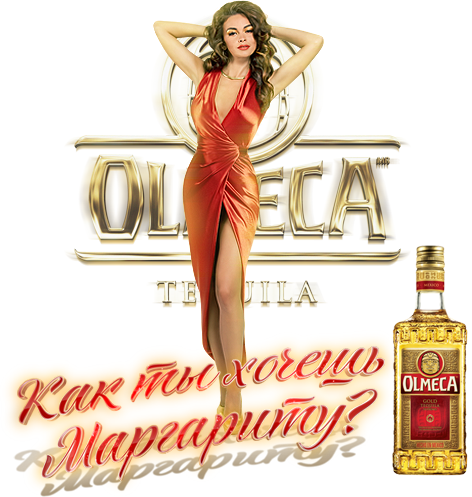
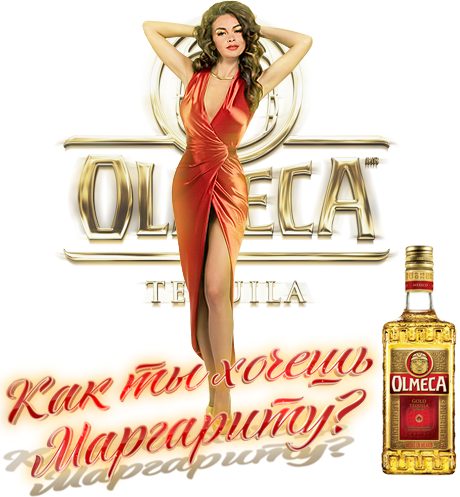
trim image more

diff --git a/htdocs/t/branding/2012.06/branding.css b/htdocs/t/branding/2012.06/branding.css
@@ -15,7 +15,7 @@
 button.rounded,
 .common-share-box .button i { background-repeat: no-repeat; background-image: url(common.png); }
 #spotlighted i { width: 65px; height: 40px; right: -1px; top: -9px; }
-#branded-image { background-repeat: no-repeat; background-image: url(image.png); width: 472px; height: 530px; left: 140px; bottom: -685px; }
+#branded-image { background-repeat: no-repeat; background-image: url(image.png); width: 460px; height: 530px; left: 145px; bottom: -685px; }
 #branded-image-holder { height: 1115px; position: absolute; top: 245px; bottom: auto; }
 html.float-fixed #branded-image-holder { position: fixed; top: 0; bottom: auto; }
 html.stick-bottom #branded-image-holder { top: auto; bottom: 0; }
